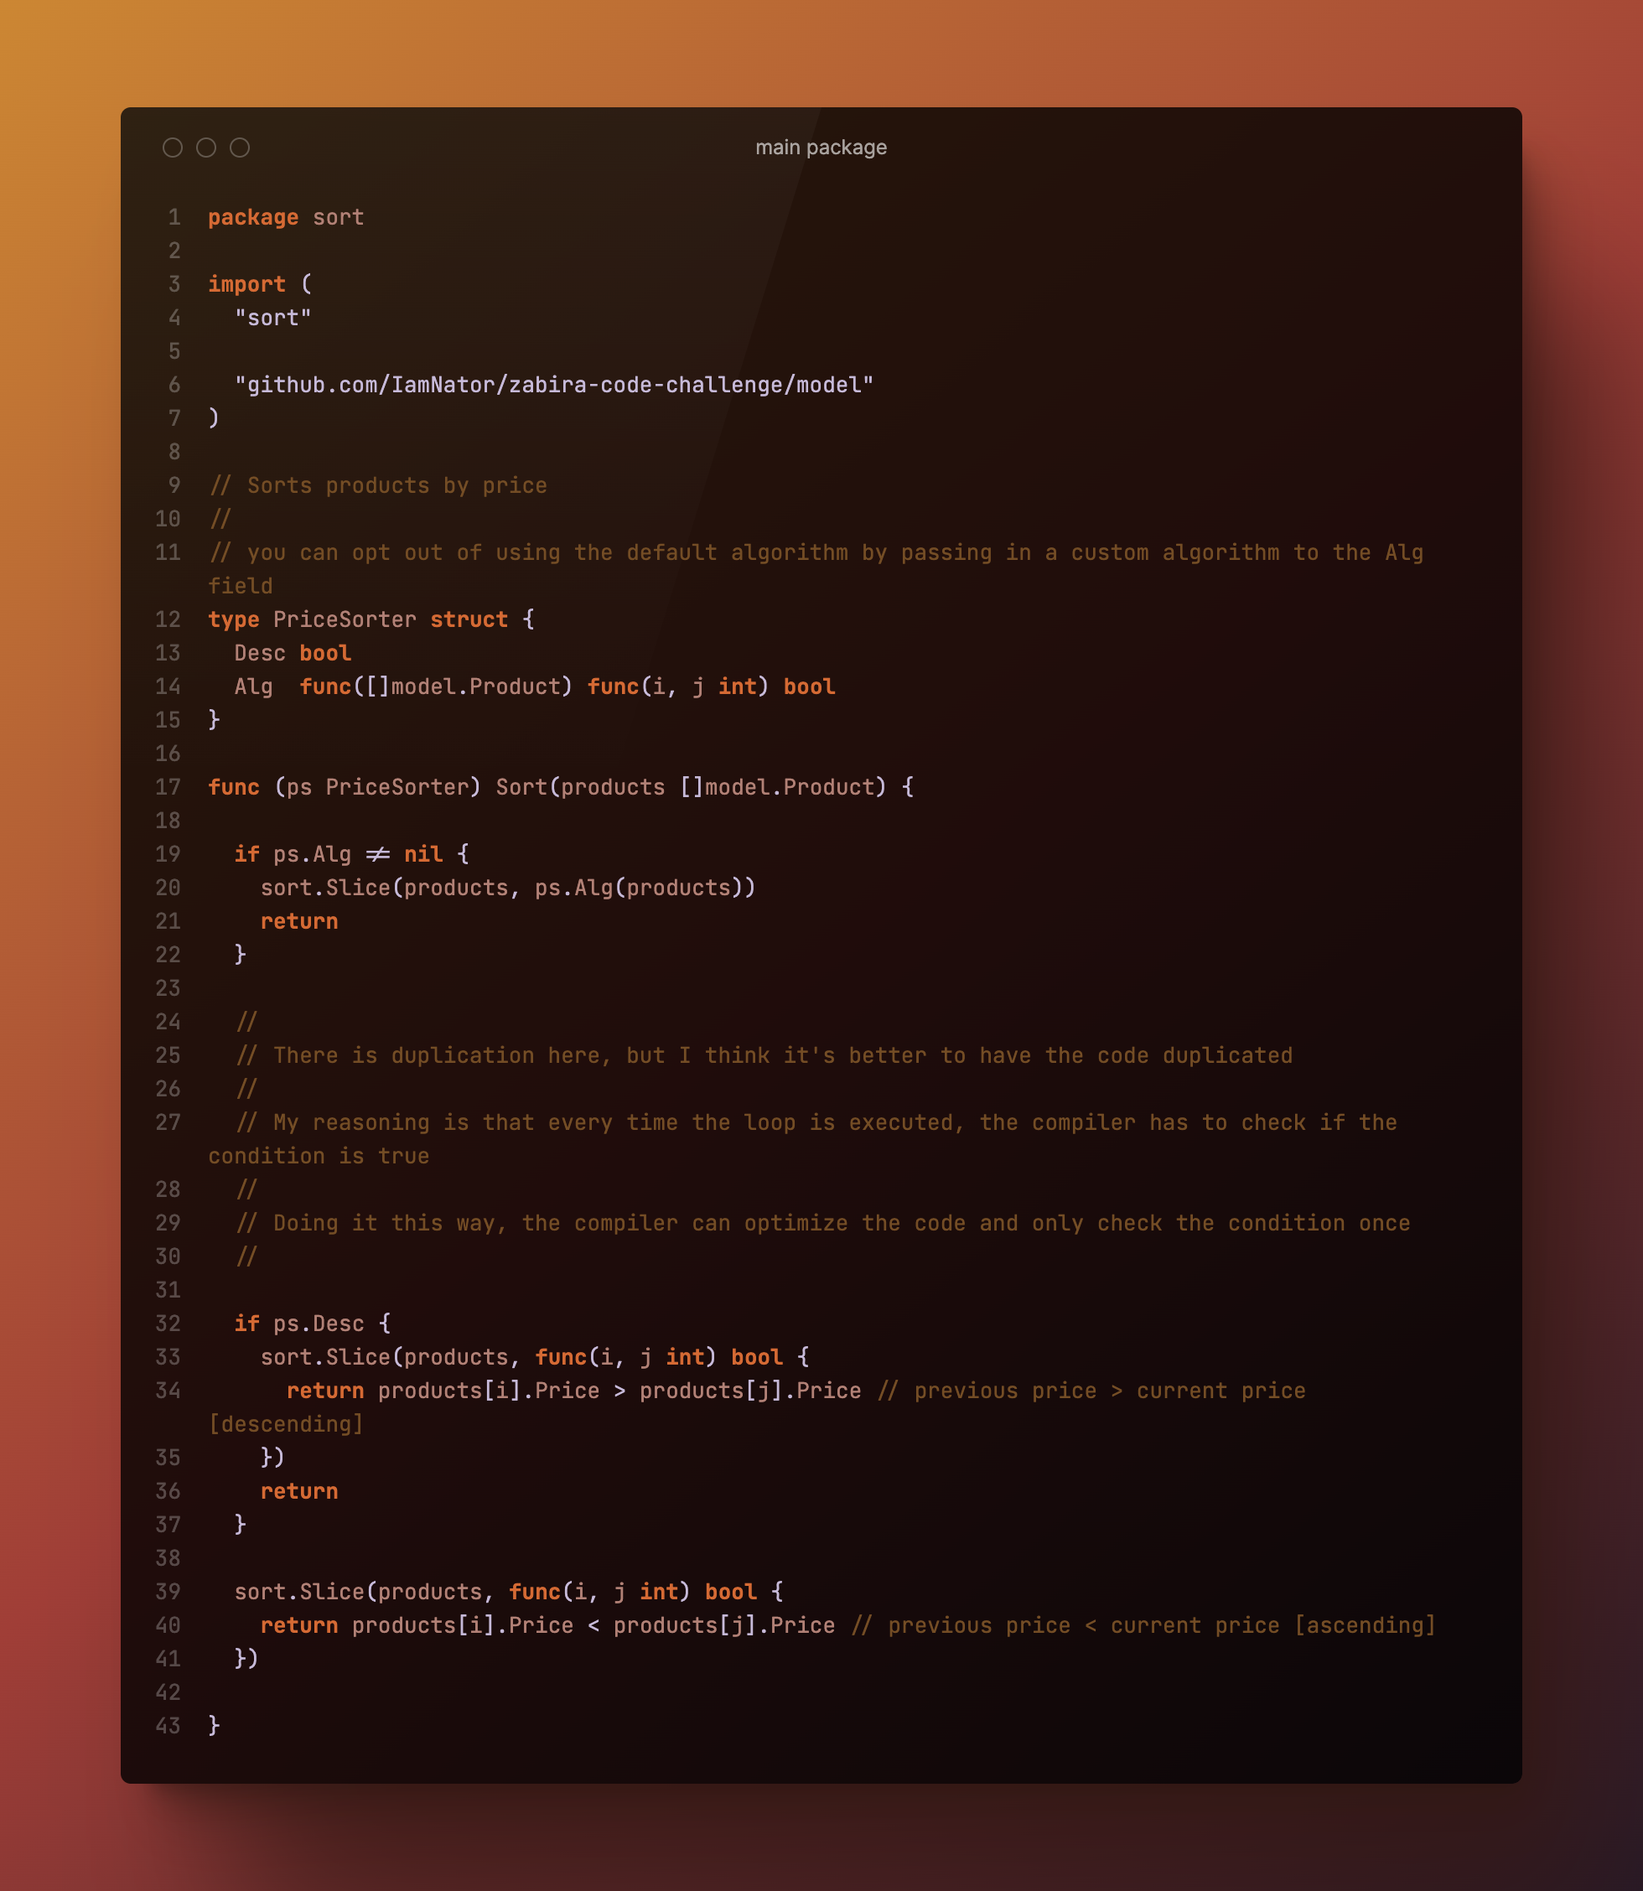
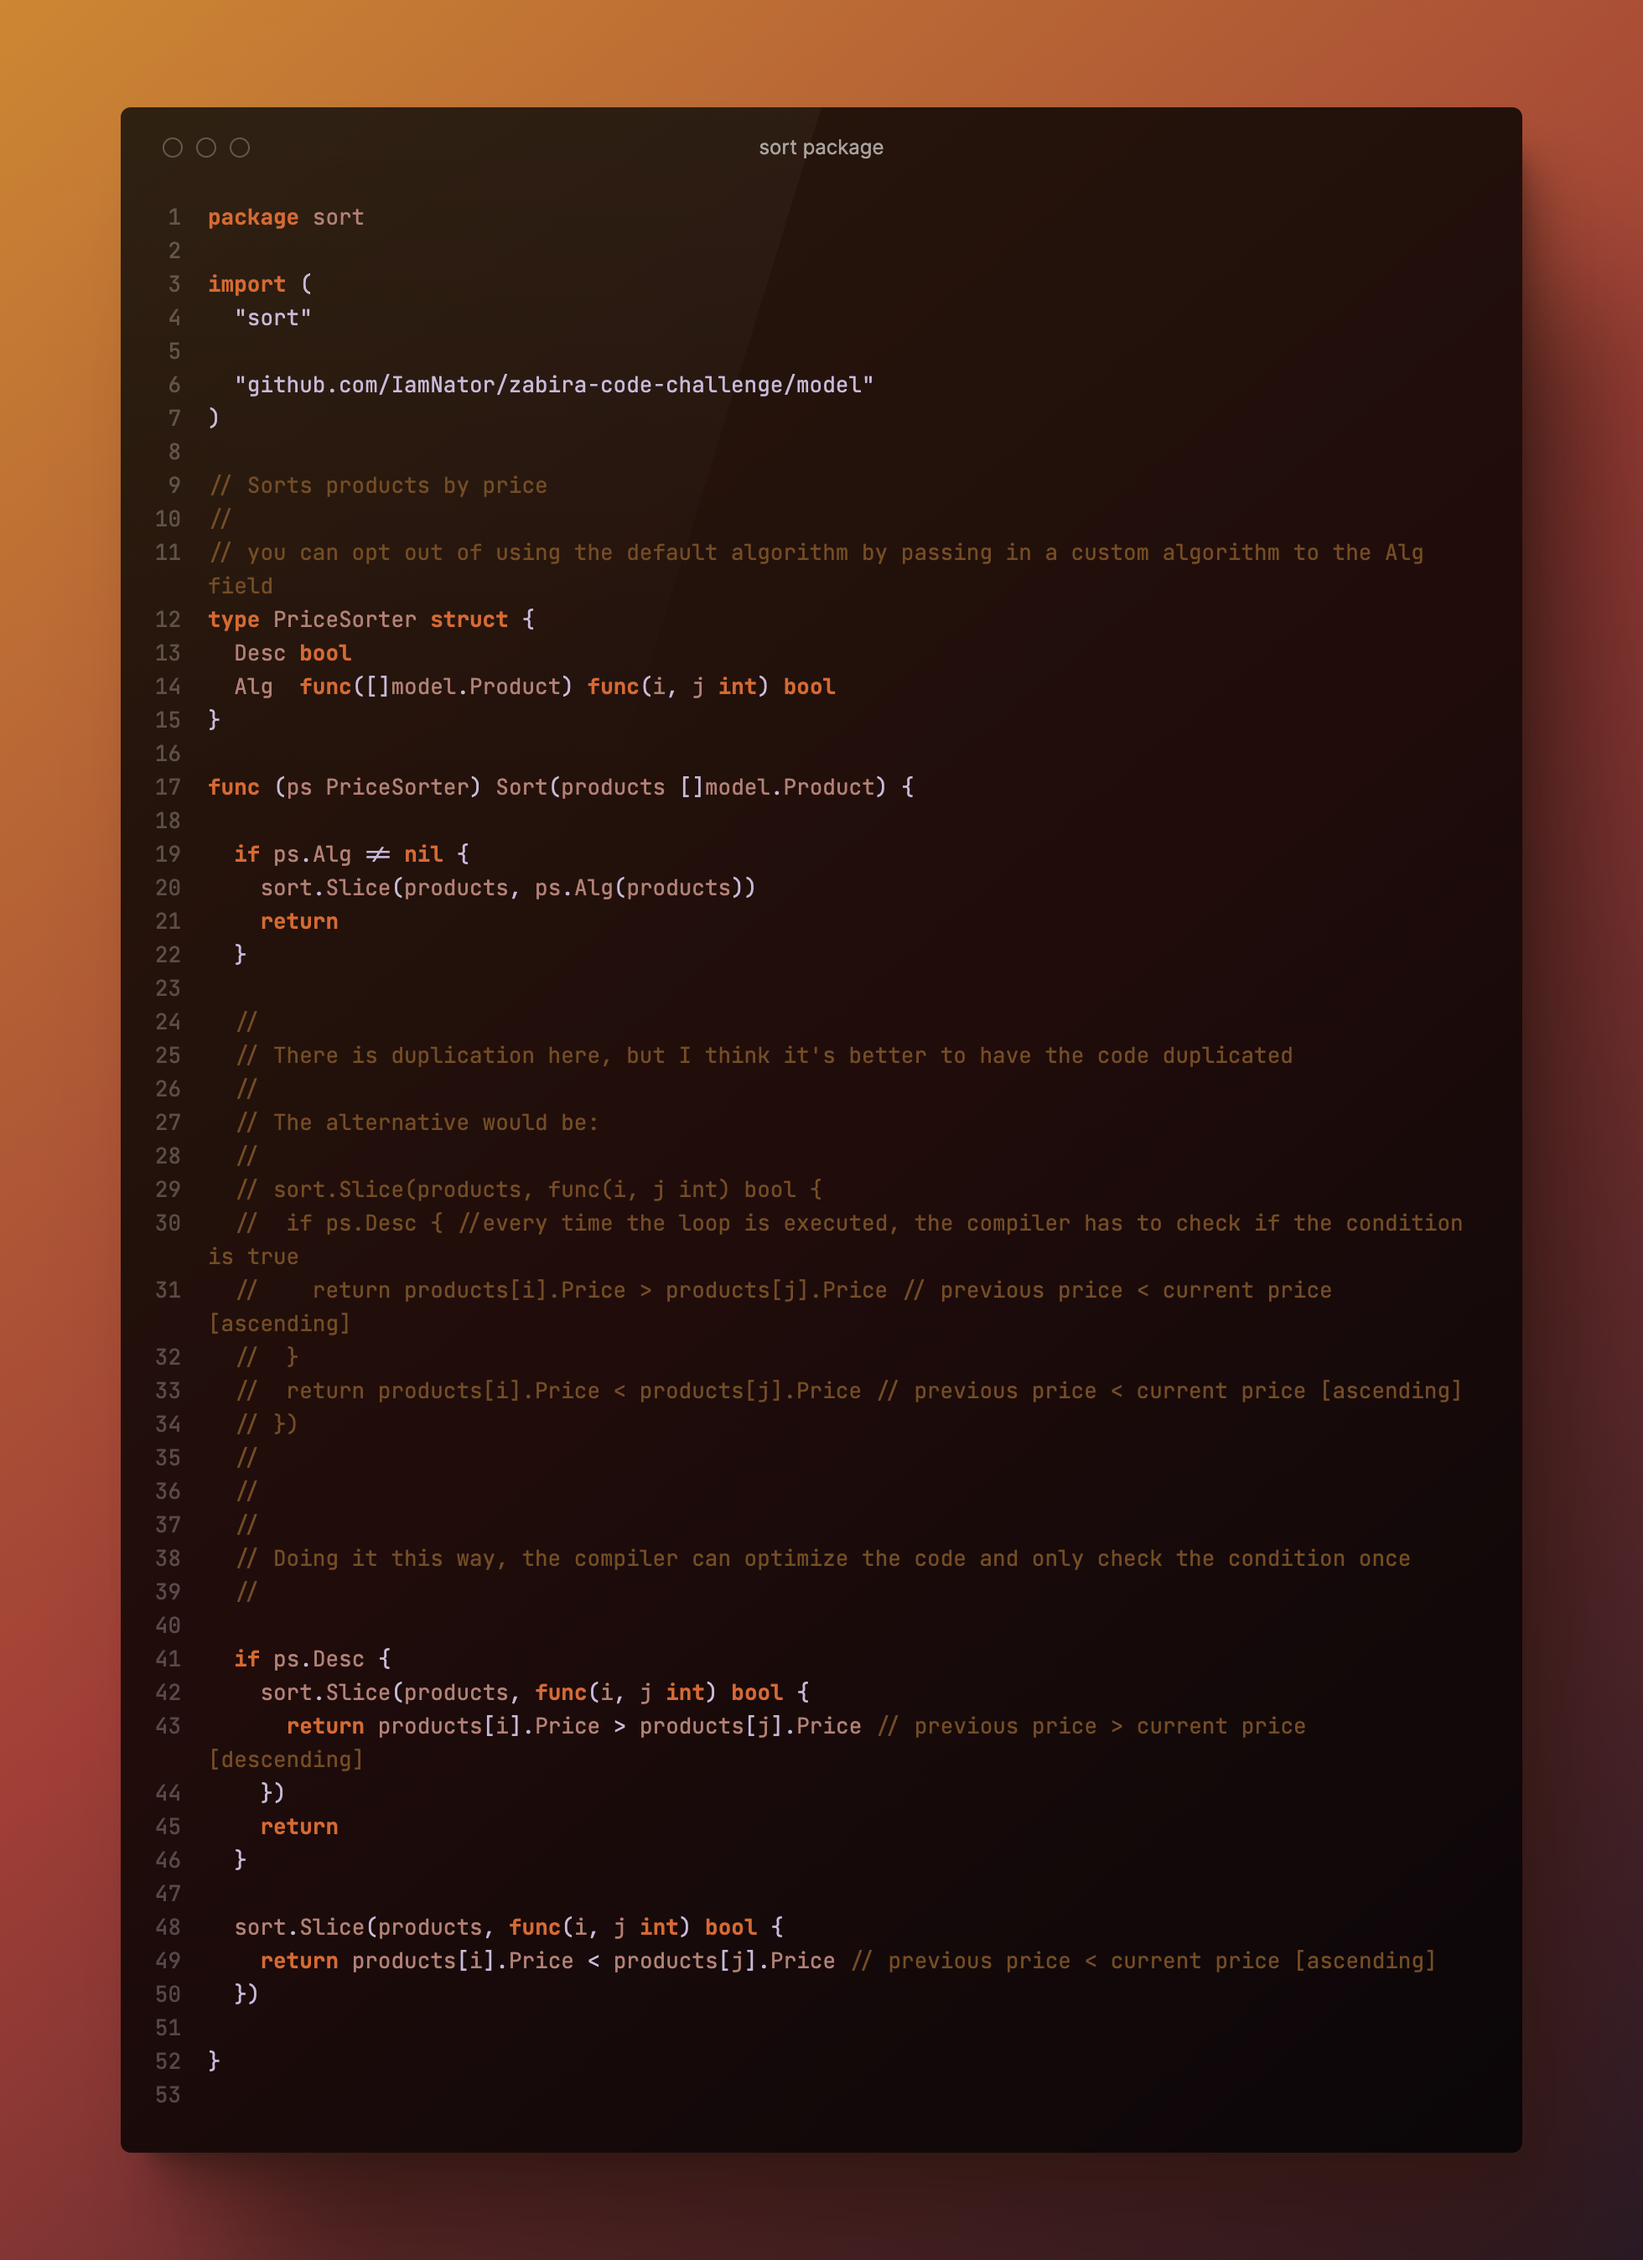
doc: update little typos

diff --git a/sort/sales_view.go b/sort/sales_view.go
@@ -24,8 +24,18 @@ func (svrs SalesToViewRatioSorter) Sort(products []model.Product) {
 	//
 	// There is duplication here, but I think it's better to have the code duplicated
 	//
-	// My reasoning is that every time the loop is executed, the compiler has to check if the condition is true
+	// The alternative would be:
 	//
+	// sort.Slice(products, func(i, j int) bool { 
+	// 		salesToViewRatioI := float64(products[i].SalesCount) / float64(products[i].ViewsCount)
+	// 		salesToViewRatioJ := float64(products[j].SalesCount) / float64(products[j].ViewsCount)
+	//
+	// 		if ps.Desc { //every time the loop is executed, the compiler has to check if the condition is true
+	// 			return salesToViewRatioI > salesToViewRatioJ // previous sales to view ratio > current sales to view ratio [descending]
+	// 		}
+	// 		return salesToViewRatioI < salesToViewRatioJ // previous sales to view ratio < current sales to view ratio [ascending]
+	// 	})
+	// 
 	// Doing it this way, the compiler can optimize the code and only check the condition once
 	//
 

diff --git a/sort/price.go b/sort/price.go
@@ -22,9 +22,18 @@ func (ps PriceSorter) Sort(products []model.Product) {
 	}
 
 	//
-	// There is duplication here, but I think it's better to have the code duplicated
+	// There is duplication here, but I think it's better to have the code duplicated 
 	//
-	// My reasoning is that every time the loop is executed, the compiler has to check if the condition is true
+	// The alternative would be:
+	//
+	// sort.Slice(products, func(i, j int) bool { 
+	// 	if ps.Desc { //every time the loop is executed, the compiler has to check if the condition is true
+	// 		return products[i].Price > products[j].Price // previous price < current price [ascending]
+	// 	}
+	// 	return products[i].Price < products[j].Price // previous price < current price [ascending]
+	// })
+	// 
+	// 
 	//
 	// Doing it this way, the compiler can optimize the code and only check the condition once
 	//
